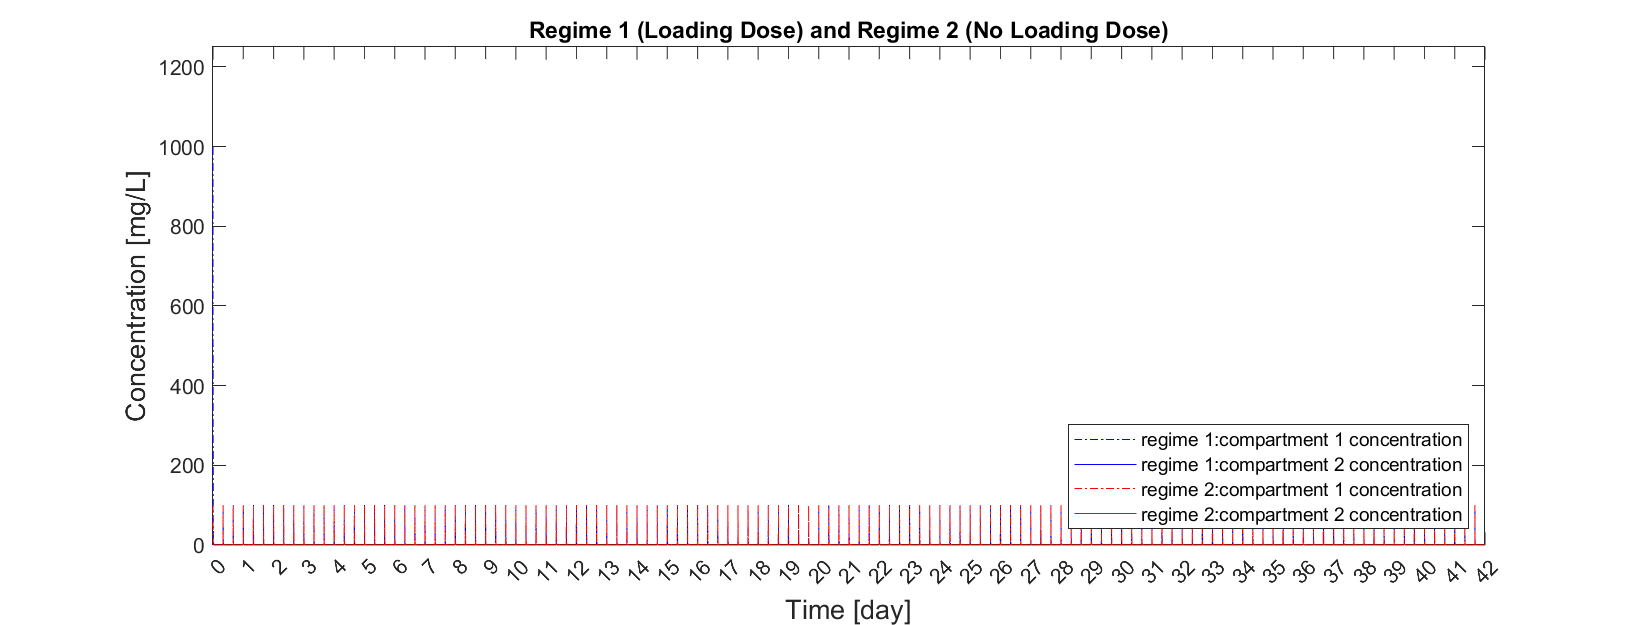
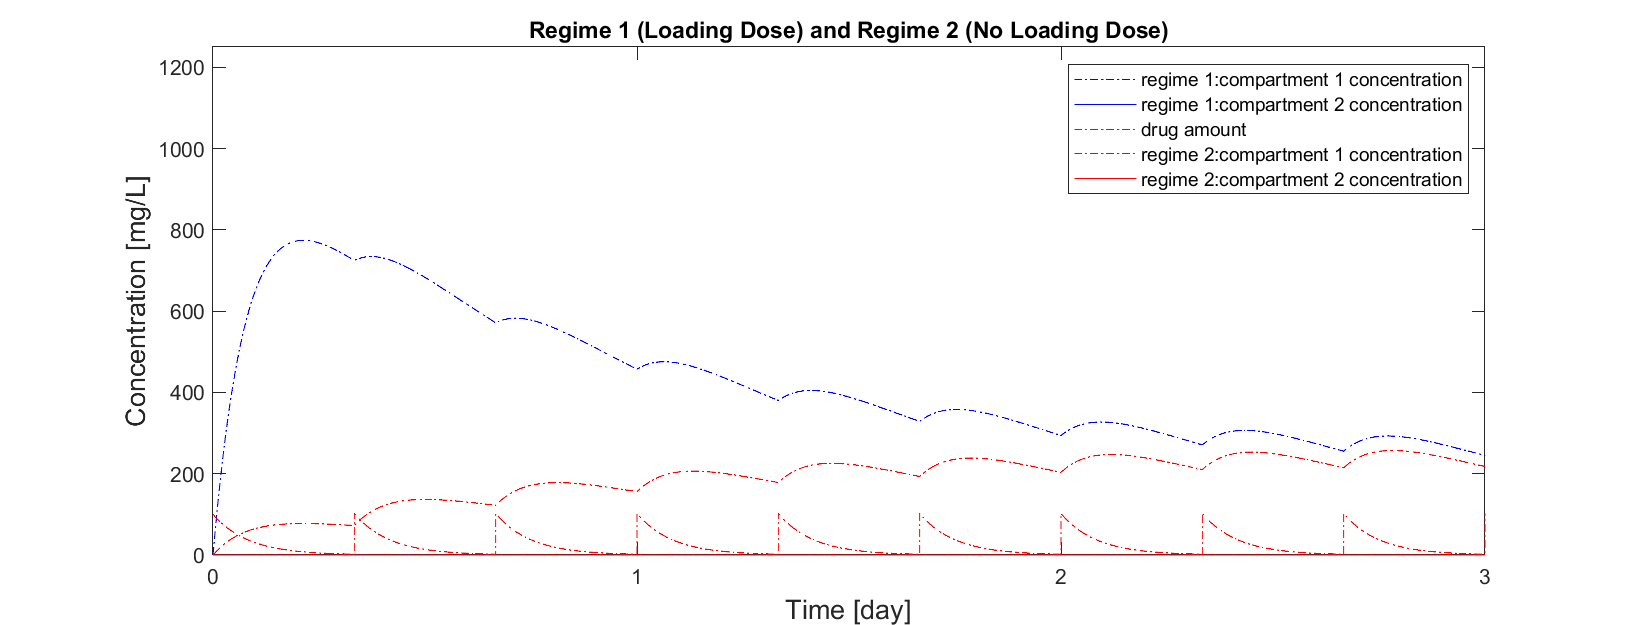
finished fixing derivative function and parameters to have rightish looking curves

diff --git a/two_dosing_regimes.m b/two_dosing_regimes.m
@@ -1,17 +1,17 @@
 
-function two_dosing_regimes()
+
 % two_dosing_regimes compares the plasma concentration time course 
 % for a two compartment model. Treatment is administered as an pill
 
 %model parameters
-p.CL   = 5;     % central clearance
-p.V1   = 60;    % volume of distribution in central compartment 
-p.Q    = 2.17;   % inter-compartmental clearance
-p.V2   = 4.23;   % volume of distribution peripheral compartment
+p.CL   = 0.05;     % central clearance
+p.V1   = 1;    % volume of distribution in central compartment 
+p.Q    = 0;   % inter-compartmental clearance
+p.V2   = 1;   % volume of distribution peripheral compartment
 p.k_elim    = p.CL/p.V1;  % rate constant of elimination              
 p.k12  = p.Q/p.V1;   % rate constant from central to peripheral             
 p.k21  = p.Q/p.V2;   % rate constant from peripheral to central   
-p.ka= 15
+p.ka= 0.5
 p.regime=1;
 p.endtime=24*7*6; %h
 p.load_dose=1000
@@ -22,7 +22,7 @@ p.F=1
 for regime=[1 2]
     switch regime
         case 1
-        p.regime=2;
+        p.regime=1;
         p.interval=24/3;
         p.initial_dose=p.load_dose
         case 2
@@ -53,25 +53,28 @@ f = figure;
 f.Position = [100 100 1050 400];
 unit_conv=24
 xlim_1=[0 p.endtime/unit_conv]
+xlim_1=[0 72/unit_conv]
 xtick_spacing=p.interval*3/unit_conv
 %xlim_1=[0 190];
 
-plot(t_vals_1/unit_conv,c_vals_1(:,1),'-.b','DisplayName','regime 1:compartment 1 concentration')
+plot(t_vals_1/unit_conv,c_vals_1(:,1),'-.b','DisplayName','drug amount')
+plot(t_vals_1/unit_conv,c_vals_1(:,2),'-.b','DisplayName','regime 1:compartment 1 concentration')
 hold on 
-plot(t_vals_1/unit_conv,c_vals_1(:,2),'-b','DisplayName','regime 1:compartment 2 concentration')
-plot(t_vals_2/unit_conv,c_vals_2(:,1),'-.r','DisplayName','regime 2:compartment 1 concentration')
-plot(t_vals_2/unit_conv,c_vals_2(:,2),'-r','DisplayName','regime 2:compartment 2 concentration')
+plot(t_vals_1/unit_conv,c_vals_1(:,3),'-b','DisplayName','regime 1:compartment 2 concentration')
+plot(t_vals_2/unit_conv,c_vals_2(:,1),'-.r','DisplayName','drug amount')
+plot(t_vals_2/unit_conv,c_vals_2(:,2),'-.r','DisplayName','regime 2:compartment 1 concentration')
+plot(t_vals_2/unit_conv,c_vals_2(:,3),'-r','DisplayName','regime 2:compartment 2 concentration')
 xlim(xlim_1);
 xticks([xlim_1(1):xtick_spacing:xlim_1(2)])
 ylim([0 p.load_dose*5/4])
 title( 'Regime 1 (Loading Dose) and Regime 2 (No Loading Dose)')
-legend('Location','southeast')
+legend('Location','northeast')
 xlabel('\fontsize{13}Time [day]')
 ylabel('\fontsize{13}Concentration [mg/L]')
 %set(gca,"FontSize",10)
 
 saveas(gcf,'two_dosing_regimes_plot.png')
-end
+
 
 %%%%%%%%%%%%%%%%%%%%%%%%%%%%%%%%%%%%%%%%%%%%%%%%%%%%%%%%%%%%%%%%%%%%%%%%%%%
 %%%%%%%%%%%%%%%%%%%%%%%%%%%%%%%%%%%%%%%%%%%%%%%%%%%%%%%%%%%%%%%%%%%%%%%%%%%
@@ -99,8 +102,8 @@ a=c(1);
 c1=c(2);
 c2=c(3);
 
-dcdt = [  -1*p.ka*a, 
-         +p.F*p.ka*(a/p.V1)-p.k_elim*c(1)-p.k12*c1*p.V1      +  p.k21*c2*p.V2/p.V1,        
+dcdt = [ - 1*p.ka*a, 
+         p.F*p.ka*(a/p.V1) - p.k_elim*c1 - p.k12*c1*p.V1 + p.k21*c2*p.V2/p.V1,        
                                          +p.k12*c1*p.V1/p.V2 -  p.k21*c2*p.V2 ];
 end
 %%%%%%%%%%%%%%%%%%%%%%%%%%%%%%%%%%%%%%%%%%%%%%%%%%%%%%%%%%%%%%%%%%%%%%%%%%%
